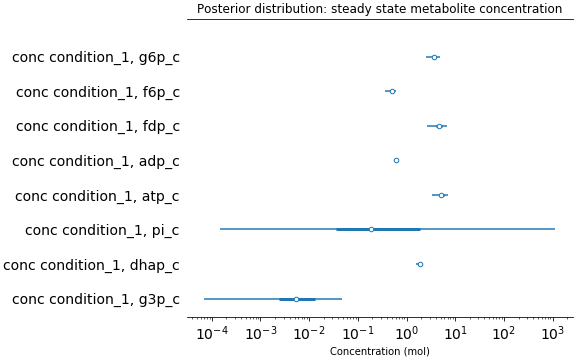
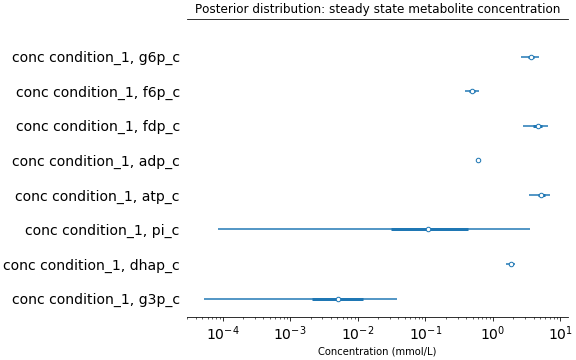
Doc: change case study to a happy ending

diff --git a/docs/case_studies/ecoli.rst b/docs/case_studies/ecoli.rst
@@ -230,50 +230,32 @@ diagnostic information:
 
     Checking sampler transitions treedepth.
     Treedepth satisfactory for all transitions.
-    
+
     Checking sampler transitions for divergences.
-    5 of 1600 (0.31%) transitions ended with a divergence.
-    These divergent transitions indicate that HMC is not fully able to explore the posterior distribution.
-    Try increasing adapt delta closer to 1.
-    If this doesn't remove all divergences, try to reparameterize the model.
-    
+    No divergent transitions found.
+
     Checking E-BFMI - sampler transitions HMC potential energy.
     E-BFMI satisfactory for all transitions.
-    
+
     Effective sample size satisfactory.
-    
+
     Split R-hat values satisfactory all parameters.
-    
-    Processing complete.
-                              Mean      MCSE   StdDev  ...    N_Eff   N_Eff/s    R_hat
-    name                                               ...                            
-    lp__                  -97.4621  0.342428  4.51631  ...  173.952  0.106822  1.02324
-    formation_energy[1] -1334.0000  0.039000  1.10000  ...  804.000  0.490000  1.00000
-    formation_energy[2] -1334.0000  0.038000  1.00000  ...  740.000  0.450000  1.00000
-    formation_energy[3] -2224.0000  0.071000  2.00000  ...  797.000  0.490000  1.00000
-    formation_energy[4] -1441.0000  0.078000  2.40000  ...  914.000  0.560000  1.00000
-    ...                        ...       ...      ...  ...      ...       ...      ...
-    log_lik[4]             -0.6100  0.062000  1.70000  ...  779.000  0.480000  1.00000
-    log_lik[5]              2.4000  0.033000  0.68000  ...  435.000  0.270000  1.00000
-    log_lik[6]             -1.5000  0.058000  0.86000  ...  219.000  0.130000  1.00000
-    log_lik[7]             -1.5000  0.033000  0.71000  ...  461.000  0.280000  1.00000
-    log_lik[8]              0.4300  0.039000  0.80000  ...  415.000  0.250000  1.00000
-    
-    [75 rows x 9 columns]
 
+The diagnostic message raises no warnings, indicating that Maud's output files
+probably represent draws from the posterior distribution defined by our input.
 
-The diagnostic message indicates that there were some post-warmup divergent
-transitions. This suggests that our output files might not represent draws from
-the posterior distribution defined by our input, as some parts of the
-distribution seem to be difficult to explore.
-
-Difficult posterior geometries are often caused by unrealistic assumptions
-implicit in the model, so a good way to look for the cause of the bad
-computation is to check whether our draws are broadly realistic. Looking at the
-posterior for steady state metabolite concentrations suggests not:
+Investigating the marginal posterior distributions for metabolite
+concentrations, the results appear broadly plausible.
 
 .. figure:: conc.png
 
-Most of these concentrations are broadly plausible, but the posterior
-distribution for phosphate ion concentration has substantial mass above 30
-mM, which is very unlikely.
+Similarly, the marginal posteriors for reaction fluxes are close to the
+measured value of -0.5 for FBP and 4.08 for other reactions:
+
+.. figure:: conc.png
+
+Finally, the marginal posteriors for kinetic parameters are also plausible,
+though the :math:`k_{cat}` parameter for the TPI reaction is very high at
+around 10000.
+
+.. figure:: kinetic_params.png
